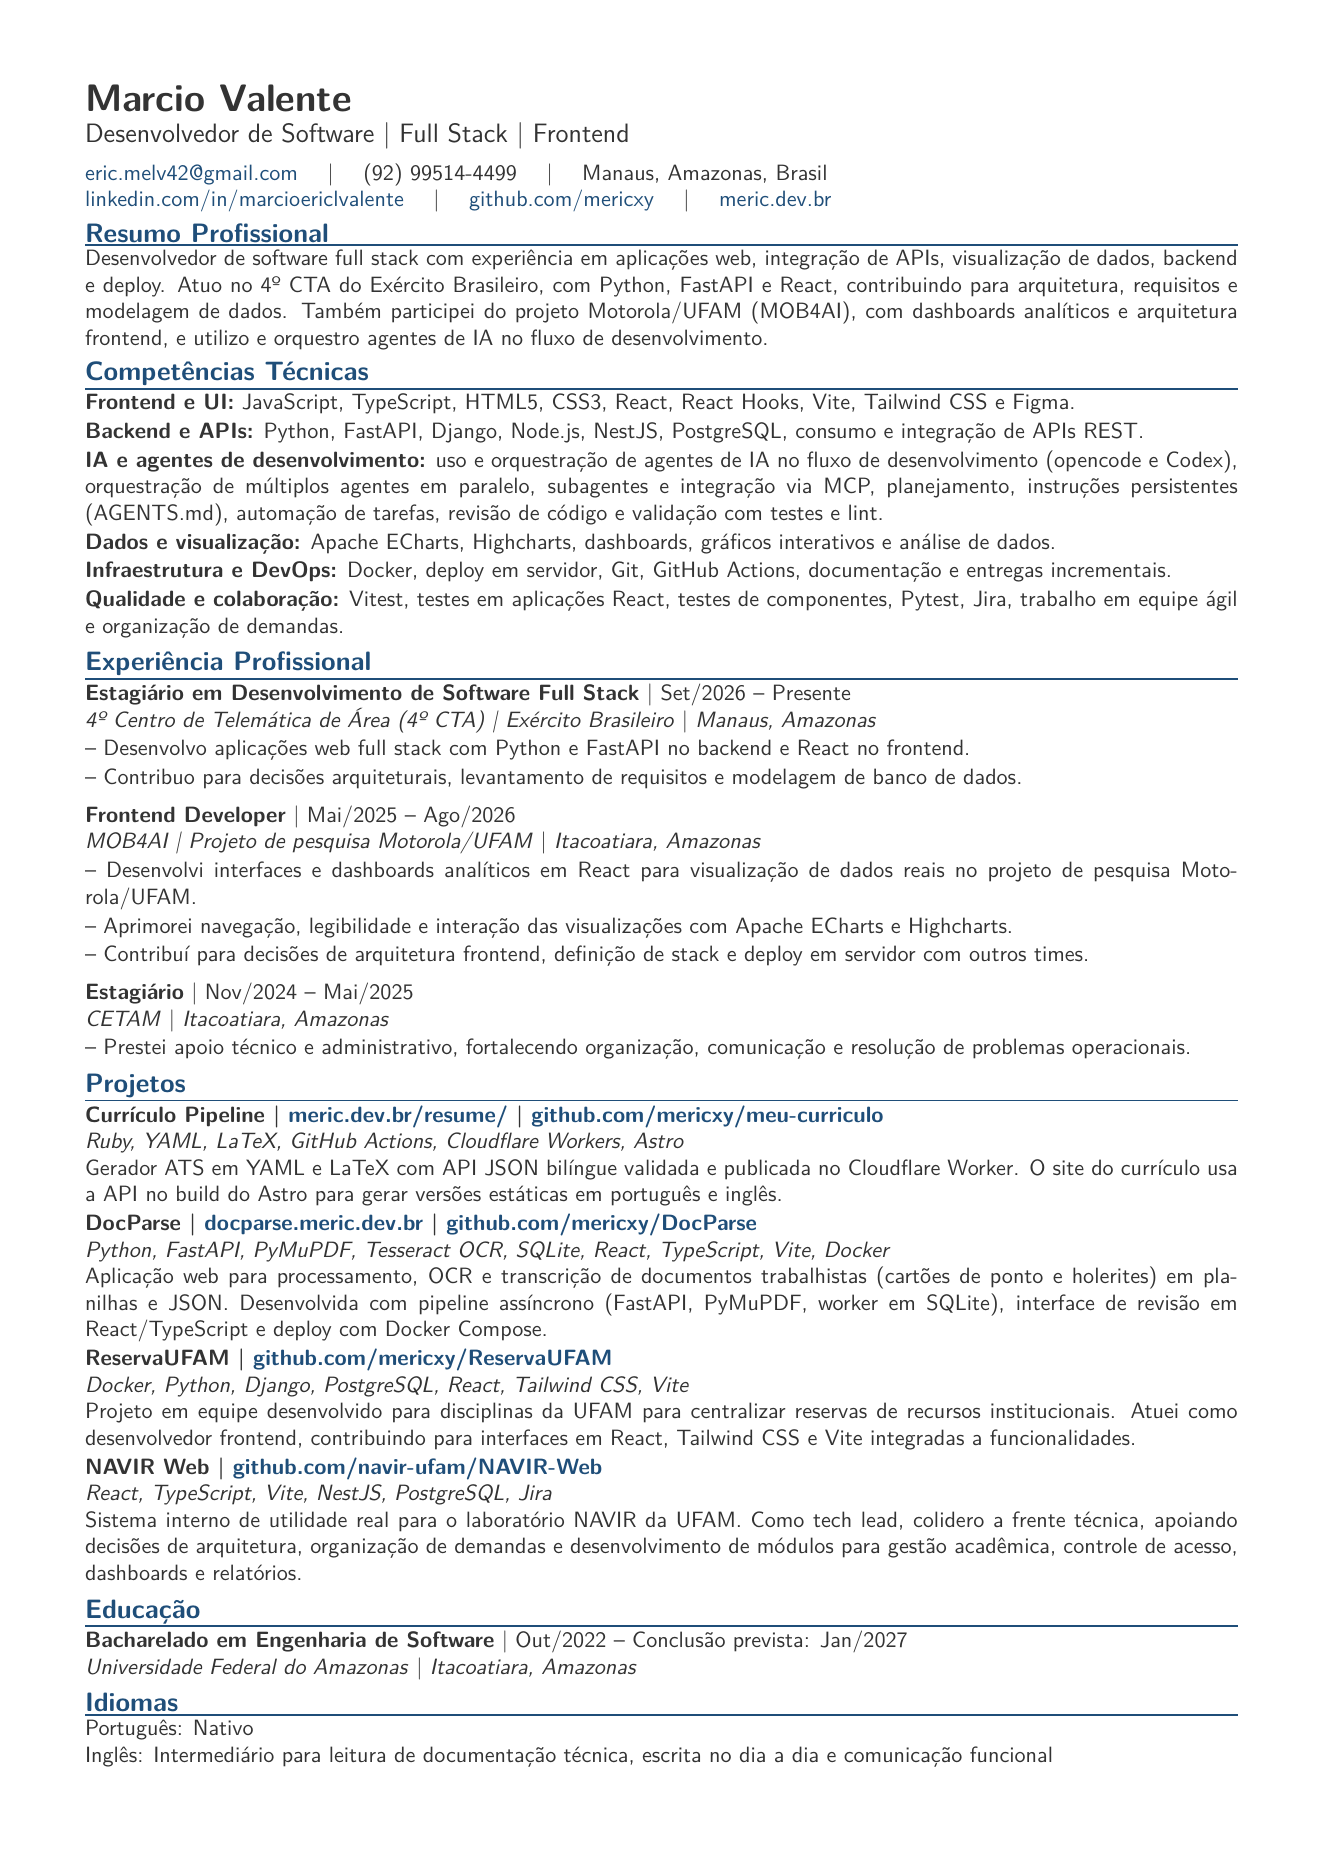
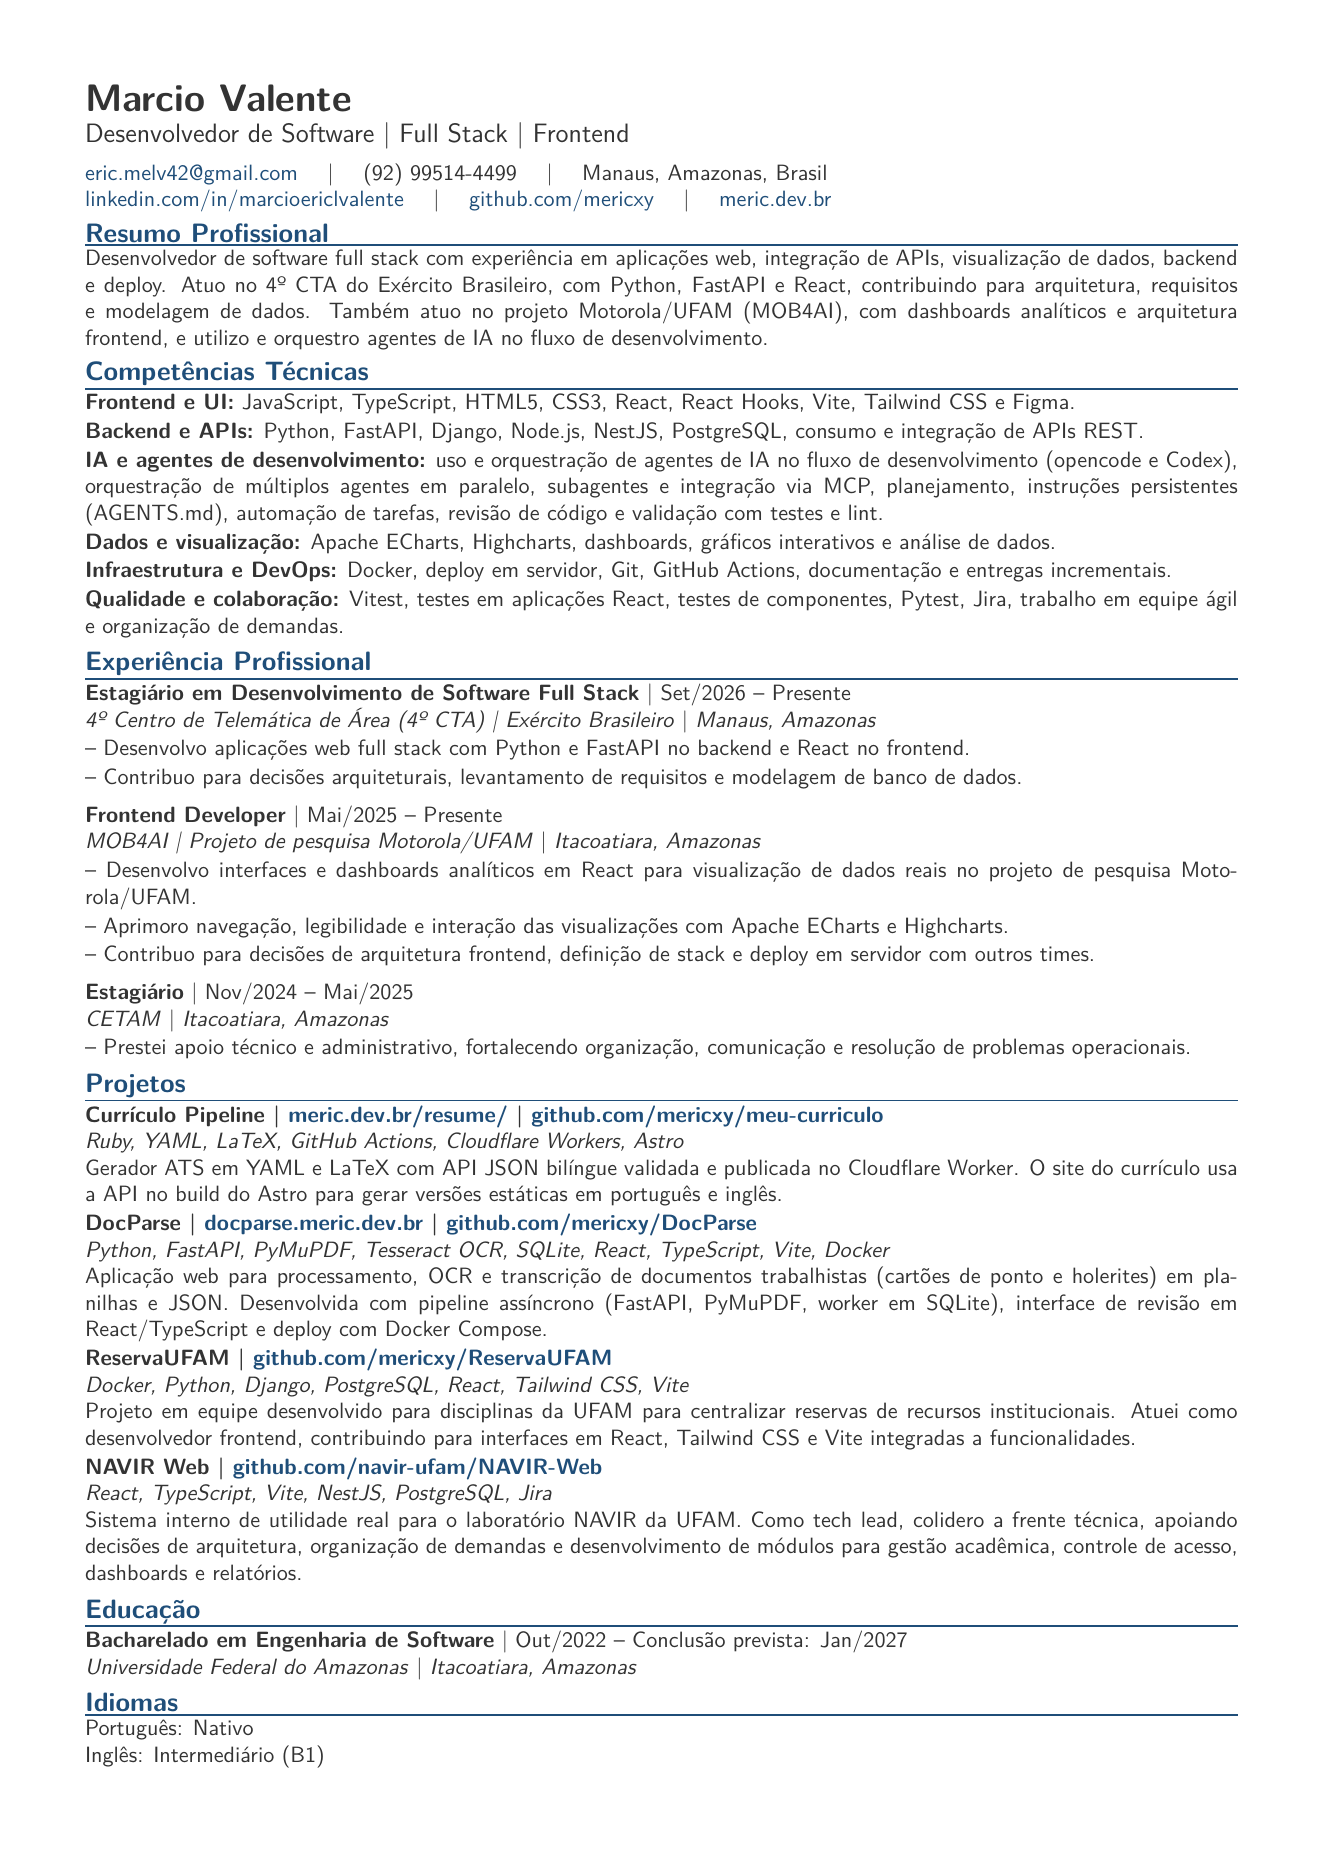
Mark MOB4AI role as ongoing and shorten English level

diff --git a/curriculo-geral.tex b/curriculo-geral.tex
@@ -4,7 +4,7 @@
 \resumeheader{Marcio Valente}{Tecnologia da Informação | Sistemas | Suporte Técnico}{\href{\detokenize{mailto:eric.melv42@gmail.com}}{eric.melv42@gmail.com}}{(92) 99514-4499}{Manaus, Amazonas, Brasil}{\href{\detokenize{https://www.linkedin.com/in/marcioericlvalente}}{linkedin.com/in/marcioericlvalente}}{\href{\detokenize{https://www.github.com/mericxy}}{github.com/mericxy}}{\href{\detokenize{https://meric.dev.br}}{meric.dev.br}}
 
 \sectiontitle{Resumo Profissional}
-\resumeparagraph{Profissional de tecnologia da informação e estudante de Engenharia de Software, com experiência em desenvolvimento de sistemas web, apoio técnico e administrativo, organização de demandas, documentação e resolução de problemas. Atuo no 4º CTA do Exército Brasileiro, desenvolvendo aplicações full stack com Python, FastAPI e React e contribuindo para arquitetura, requisitos e modelagem de banco de dados. Também participei de projeto de pesquisa Motorola/UFAM, trabalhando com ferramentas e dashboards analíticos.}
+\resumeparagraph{Profissional de tecnologia da informação e estudante de Engenharia de Software, com experiência em desenvolvimento de sistemas web, apoio técnico e administrativo, organização de demandas, documentação e resolução de problemas. Atuo no 4º CTA do Exército Brasileiro, desenvolvendo aplicações full stack com Python, FastAPI e React e contribuindo para arquitetura, requisitos e modelagem de banco de dados. Também atuo em projeto de pesquisa Motorola/UFAM, trabalhando com ferramentas e dashboards analíticos.}
 
 \sectiontitle{Competências Técnicas}
 \skill{Suporte e operações}{apoio técnico, resolução de problemas, organização de rotinas, documentação e atendimento de demandas.}
@@ -17,10 +17,10 @@
 \achievement{Desenvolvo aplicações web full stack com Python e FastAPI no backend e React no frontend.}
 \achievement{Contribuo para decisões arquiteturais, levantamento de requisitos e modelagem de banco de dados.}
 \vspace{4pt}
-\role{Frontend Developer}{Mai/2025 -- Ago/2026}{MOB4AI | Projeto de pesquisa Motorola/UFAM}{Itacoatiara, Amazonas}
-\achievement{Desenvolvi interfaces e dashboards analíticos em React para visualização de dados reais no projeto de pesquisa Motorola/UFAM.}
-\achievement{Aprimorei navegação, legibilidade e interação das visualizações com Apache ECharts e Highcharts.}
-\achievement{Contribuí para decisões de arquitetura frontend, definição de stack e deploy em servidor com outros times.}
+\role{Frontend Developer}{Mai/2025 -- Presente}{MOB4AI | Projeto de pesquisa Motorola/UFAM}{Itacoatiara, Amazonas}
+\achievement{Desenvolvo interfaces e dashboards analíticos em React para visualização de dados reais no projeto de pesquisa Motorola/UFAM.}
+\achievement{Aprimoro navegação, legibilidade e interação das visualizações com Apache ECharts e Highcharts.}
+\achievement{Contribuo para decisões de arquitetura frontend, definição de stack e deploy em servidor com outros times.}
 \vspace{4pt}
 \role{Estagiário}{Nov/2024 -- Mai/2025}{CETAM}{Itacoatiara, Amazonas}
 \achievement{Prestei apoio técnico e administrativo, fortalecendo organização, comunicação e resolução de problemas operacionais.}
@@ -37,7 +37,7 @@
 
 \sectiontitle{Idiomas}
 \resumelanguage{Português}{Nativo}
-\resumelanguage{Inglês}{Intermediário para leitura de documentação técnica, escrita no dia a dia e comunicação funcional}
+\resumelanguage{Inglês}{Intermediário (B1)}
 
 \sectiontitle{Informações Adicionais}
 \resumeparagraph{Carteira Nacional de Habilitação (CNH): categorias A e B}

diff --git a/curriculo.tex b/curriculo.tex
@@ -4,7 +4,7 @@
 \resumeheader{Marcio Valente}{Desenvolvedor de Software | Full Stack | Frontend}{\href{\detokenize{mailto:eric.melv42@gmail.com}}{eric.melv42@gmail.com}}{(92) 99514-4499}{Manaus, Amazonas, Brasil}{\href{\detokenize{https://www.linkedin.com/in/marcioericlvalente}}{linkedin.com/in/marcioericlvalente}}{\href{\detokenize{https://www.github.com/mericxy}}{github.com/mericxy}}{\href{\detokenize{https://meric.dev.br}}{meric.dev.br}}
 
 \sectiontitle{Resumo Profissional}
-\resumeparagraph{Desenvolvedor de software full stack com experiência em aplicações web, integração de APIs, visualização de dados, backend e deploy. Atuo no 4º CTA do Exército Brasileiro, com Python, FastAPI e React, contribuindo para arquitetura, requisitos e modelagem de dados. Também participei do projeto Motorola/UFAM (MOB4AI), com dashboards analíticos e arquitetura frontend, e utilizo e orquestro agentes de IA no fluxo de desenvolvimento.}
+\resumeparagraph{Desenvolvedor de software full stack com experiência em aplicações web, integração de APIs, visualização de dados, backend e deploy. Atuo no 4º CTA do Exército Brasileiro, com Python, FastAPI e React, contribuindo para arquitetura, requisitos e modelagem de dados. Também atuo no projeto Motorola/UFAM (MOB4AI), com dashboards analíticos e arquitetura frontend, e utilizo e orquestro agentes de IA no fluxo de desenvolvimento.}
 
 \sectiontitle{Competências Técnicas}
 \skill{Frontend e UI}{JavaScript, TypeScript, HTML5, CSS3, React, React Hooks, Vite, Tailwind CSS e Figma.}
@@ -19,10 +19,10 @@
 \achievement{Desenvolvo aplicações web full stack com Python e FastAPI no backend e React no frontend.}
 \achievement{Contribuo para decisões arquiteturais, levantamento de requisitos e modelagem de banco de dados.}
 \vspace{4pt}
-\role{Frontend Developer}{Mai/2025 -- Ago/2026}{MOB4AI | Projeto de pesquisa Motorola/UFAM}{Itacoatiara, Amazonas}
-\achievement{Desenvolvi interfaces e dashboards analíticos em React para visualização de dados reais no projeto de pesquisa Motorola/UFAM.}
-\achievement{Aprimorei navegação, legibilidade e interação das visualizações com Apache ECharts e Highcharts.}
-\achievement{Contribuí para decisões de arquitetura frontend, definição de stack e deploy em servidor com outros times.}
+\role{Frontend Developer}{Mai/2025 -- Presente}{MOB4AI | Projeto de pesquisa Motorola/UFAM}{Itacoatiara, Amazonas}
+\achievement{Desenvolvo interfaces e dashboards analíticos em React para visualização de dados reais no projeto de pesquisa Motorola/UFAM.}
+\achievement{Aprimoro navegação, legibilidade e interação das visualizações com Apache ECharts e Highcharts.}
+\achievement{Contribuo para decisões de arquitetura frontend, definição de stack e deploy em servidor com outros times.}
 \vspace{4pt}
 \role{Estagiário}{Nov/2024 -- Mai/2025}{CETAM}{Itacoatiara, Amazonas}
 \achievement{Prestei apoio técnico e administrativo, fortalecendo organização, comunicação e resolução de problemas operacionais.}
@@ -41,4 +41,4 @@
 
 \sectiontitle{Idiomas}
 \resumelanguage{Português}{Nativo}
-\resumelanguage{Inglês}{Intermediário para leitura de documentação técnica, escrita no dia a dia e comunicação funcional}
+\resumelanguage{Inglês}{Intermediário (B1)}
